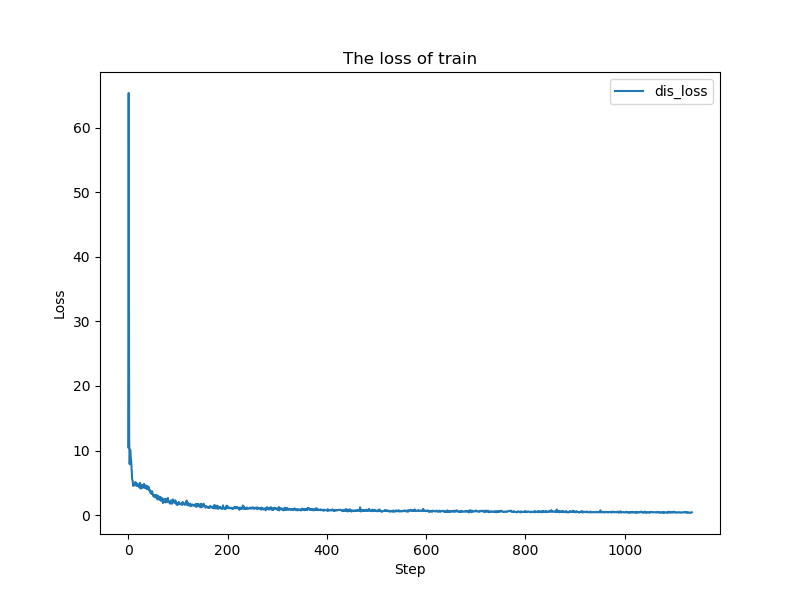
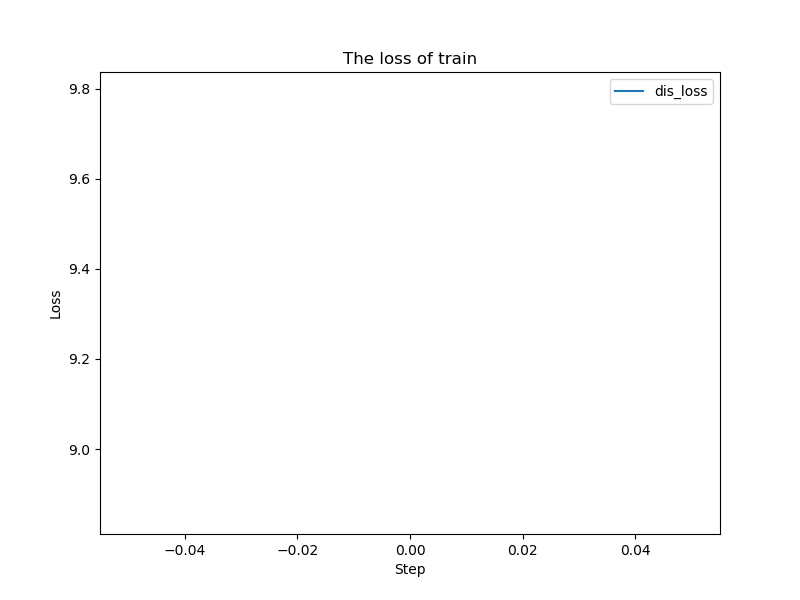
successfully run

diff --git a/src/nyu_train.py b/src/nyu_train.py
@@ -30,7 +30,7 @@ def elapsed(sec):
 #save array to txt file
 def save_results(results, out_file):
 
-    with open(out_file, 'w+') as f:
+    with open(out_file, 'w') as f:
         for i in range(results.shape[0]):
             for j in range(results.shape[1]):
                 for k in range(results.shape[2]):
@@ -50,7 +50,7 @@ def test_model(dir, epoch):
     image_test = np.load(dir + 'NYU_Image_Test.npy').reshape([-1, 128, 128, 1])
     label_test = np.load(dir + 'NYU_Label_Test.npy').reshape([-1, 42])
 
-    test_dir = 'H:/HandPoseEstimation/dataset/NYU/test/'
+    test_dir = os.path.join(dir, 'test/')
     labels_test = sio.loadmat(test_dir + "joint_data.mat")
     joint_uvd_test = labels_test['joint_uvd'][0]  # shape: (8252,36,3)
     joint_xyz_test = labels_test['joint_xyz'][0]  # shape: (8252,36,3)
@@ -71,7 +71,7 @@ def test_model(dir, epoch):
         # obtain the ground-truth joints
         labels_norm = np.zeros(((8252, 14, 3)))
         for i, labels_gt in enumerate(label_test):
-            labels_norm[i] = labels_gt.reshape([14,3]) + joint_xyz_test[i,34]
+            labels_norm[i] = labels_gt.reshape([14,3]) * 150 + joint_xyz_test[i,34]
 
         # obtain the joints that network outputs
         outputs = np.zeros((8252,42))
@@ -94,15 +94,16 @@ def test_model(dir, epoch):
 
         # save the uvd prediction joints
         dir = 'H:/HandPoseEstimation/result/nyu/'
-        out_file = dir + 'epoch:{}_{}mm.txt'.format(epoch, average_error)
+        out_file = os.path.join(dir, "epoch_%d_%.2fmm.txt" % (epoch, int(average_error)))
         outputs_labels_uvd = world2pixel(outputs_labels, 588.036865, 587.075073, 320, 240)
+
         save_results(outputs_labels_uvd, out_file)
 
+    return average_error
 
 
 X_in_image = tf.placeholder(dtype=tf.float32, shape=[None, 128, 128, 1], name='X_in_image')
 X_in_label = tf.placeholder(dtype=tf.float32, shape=[None, 42], name='X_in_label')
-
 keep_prob = tf.placeholder(tf.float32, name='keep_prob')
 
 class multi_resnet():
@@ -246,6 +247,7 @@ label_path_train = 'H:/HandPoseEstimation/dataset/NYU/train/joint_data.mat'
 epoches = 1
 batch_size = 64
 learning_rate = 0.0001
+average_error_flag = 30 # 30 mm
 
 # pred = multi_resnet().concat_multi_scale(X_in_image)
 pred = multi_resnet().bulid_resNet(X_in_image)
@@ -272,14 +274,14 @@ with tf.Session() as sess:
     sess.run(init)
 
     # epoch iteration
-
     for epoch in range(epoches):
 
         idx = list(random.sample(range(0, 72757), 72757))
         rng = np.random.RandomState(23455)
 
         # batch at every epoch
-        for num_batch in range(0, len(idx) // batch_size):
+        # for num_batch in range(0, len(idx) // batch_size):
+        for num_batch in range(0, 1):
 
             batch_image_train = []
             batch_label_train = []
@@ -298,7 +300,7 @@ with tf.Session() as sess:
                 # random factor
                 sigma_sc = 0.02
                 sigma_com = 10.
-                num_poses = 1
+                num_poses = 1.0
                 sc = np.fabs(rng.randn(int(num_poses)) * sigma_sc + 1.)  #scale factor
                 offset = rng.randn(int(num_poses), 3) * sigma_com # translation factor
                 rot_random = np.random.uniform(0, 360, 1) # rotation factor
@@ -349,8 +351,6 @@ with tf.Session() as sess:
             batch_joint = np.array(batch_label_train).reshape(-1,42)[idx_batch]
 
             # fig = figure_joint_skeleton(batch_image[13].reshape(128,128), batch_joint[13].reshape(14,3), 1)
-            # fig = figure_joint_skeleton(batch_image[23].reshape(128, 128), batch_joint[23].reshape(14, 3), 1)
-            # fig = figure_joint_skeleton(batch_image[33].reshape(128, 128), batch_joint[33].reshape(14, 3), 1)
             # plt.show()
             # exit()
 
@@ -369,11 +369,14 @@ with tf.Session() as sess:
             steps.append(epoch * len(idx) // batch_size + num_batch)
             dis_loss_list.append(loss)
 
-        saver.save(sess, 'H:/HandPoseEstimation/model/nyu/model_{}.ckpt'.format(epoch))
-        test_model(dir, epoch)
+        saver.save(sess, "H:/HandPoseEstimation/model/nyu/model_{}.ckpt".format(epoch))
+        average_error = test_model(dir, epoch)
+        # if average_error <= average_error_flag:
+        #     average_error_flag = average_error
+        #     saver.save(sess, "H:/HandPoseEstimation/model/nyu/model_{}.ckpt".format(epoch))
+
 
 duration_time_sum = time.time() - start_time_sum
-
 print("The total training time: ",elapsed(duration_time_sum))
 
 

diff --git a/src/nyu_preprocessing.py b/src/nyu_preprocessing.py
@@ -367,7 +367,7 @@ def scaleHand(dpt, cube_size, sc, com, joints3D):
 #         com3D = joint_xyz[id, 34] # shape: (3, )
 #
 #         depth_crop = (depth - com3D[2]) / 150
-#         joint_center = (joint_xyz[id][joint_id] - com3D) / 150 # shape: (31,3)
+#         joint_center = (joint_xyz[id][joint_id] - com3D) / 150 # shape: (31,3)->(14,3)
 #
 #         depth_center[id] = depth_crop
 #         joint_xyz_center[id] = joint_center
